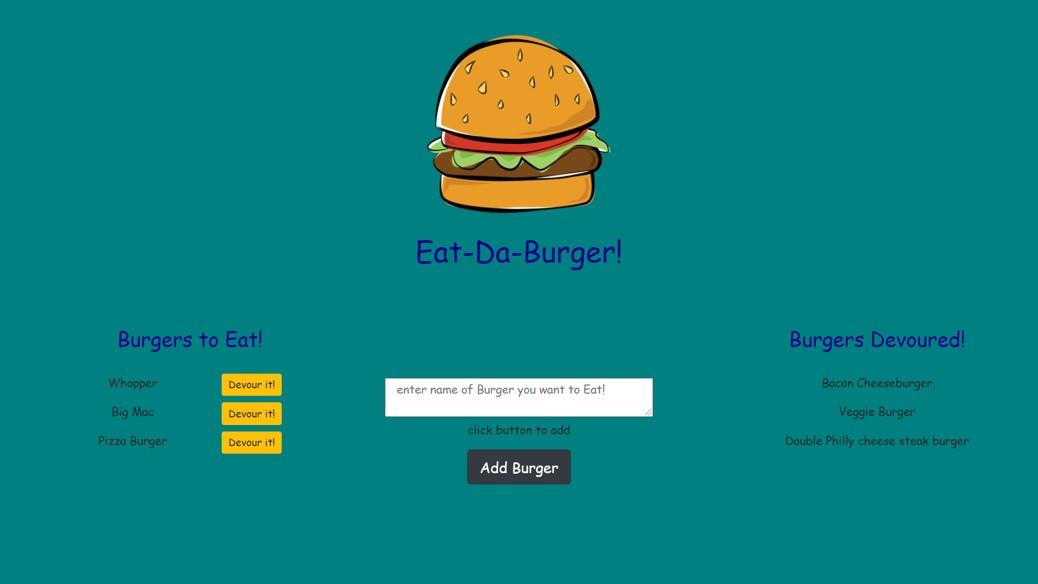
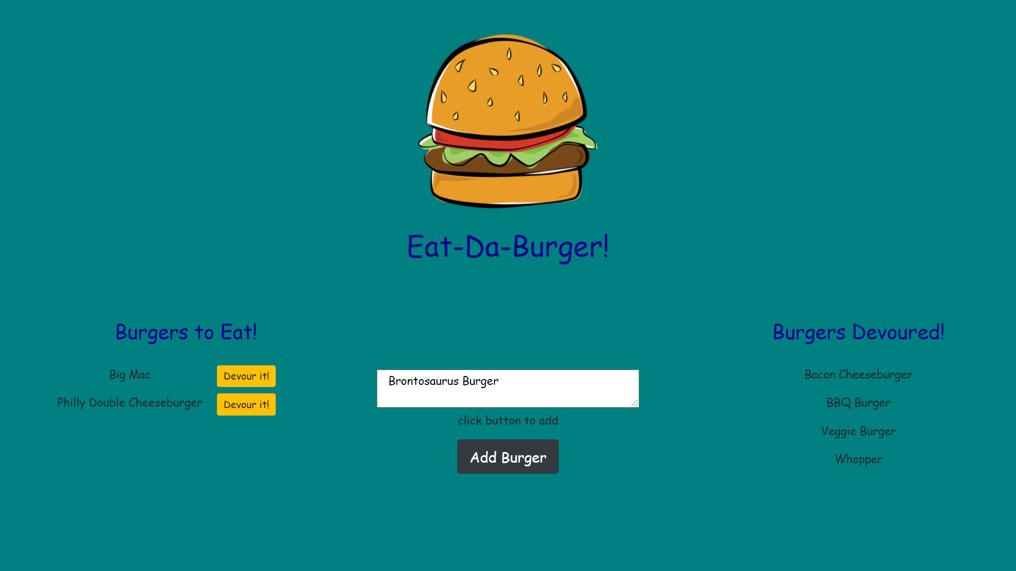
adding a delay so that the devour animation looks better :)

diff --git a/controllers/burgers_controller.js b/controllers/burgers_controller.js
@@ -25,20 +25,16 @@ router.post("/api/burgers", function (req, res) {
   });
 });
 
-// routeto change the devoured status of a burger
+// route to change the devoured status of a burger
 
 router.put("/api/burgers/:id", function (req, res) {
-  var condition = "id = " + req.params.id;
-  console.log("condition", condition);
+  var selected = "id = " + req.params.id;
+  console.log("selected", selected);
   burger.updateOne(
     { devoured: req.body.devoured },
-    condition,
+    selected,
     function (result) {
-      if (result.changedRows == 0) {
-        return res.status(404).end();
-      } else {
-        res.status(200).end();
-      }
+      res.end();
     }
   );
 });

diff --git a/public/assets/js/burger.js b/public/assets/js/burger.js
@@ -24,7 +24,10 @@ $(document).ready(function () {
 
       // Reload the page to display the updated 'to eat' and 'devoured' lists of burgers
 
-      location.reload();
+      setTimeout(function () {
+        location.reload();
+      }, 500);
+      // location.reload();
     });
   });
 });

diff --git a/README.md b/README.md
@@ -6,7 +6,7 @@ This assignment involved building an app which uses Handlebars and builds-out a 
 
 Functionally it is simple in that a user can enter the names of burgers to eat which appear on the left and then click a button to 'devour' the burger and it moves over to a list of devoured burgers on the right.
 
-The complete MCV structure was specified in the instructions, including database schema, file names and their functions and how each fits into the MVC framework. The app uses Handlebars templates, Express as middleware, MySQL with an ORM  and is deployed on Heroku using JAWS. Since the entire structure of all the components and their interactions were specified and explained in detail in the instructions, it doesn't make sense to repeat all that information here. The app follows those instructions and includes all those components.
+The complete MCV structure was specified in the instructions, including database schema, file names and their functions and how each fits into the MVC framework. The app uses MySQL and an ORM and is deployed on Heroku using JAWS. Since the entire structure of all the components and their interactions were secified and explained in detail in the instructions, it doesn't make sense to repeat all that information here. The app follows those instructions and includes all those components.
 
 I did, however, add some animation when a burger is 'devoured' and attempted to make the look polished and clean.
 
